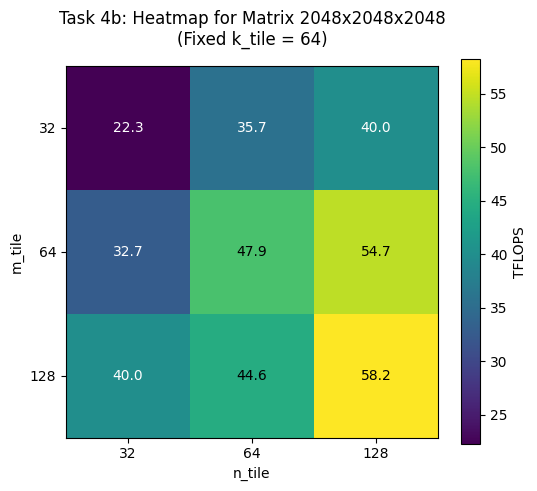
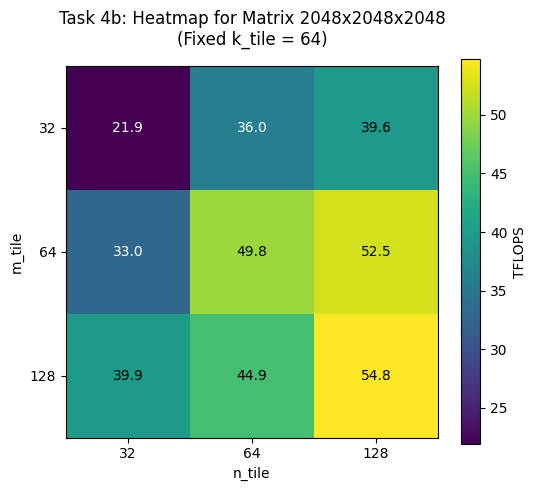
finish assignment 3 task4

diff --git a/assignments/03_assignment/src/task4.py b/assignments/03_assignment/src/task4.py
@@ -35,6 +35,7 @@ def main():
     vgl = torch.matmul(A, B)
     # print(C[:5,:5])
     # print(vgl[:5,:5])
+    assert torch.allclose(C, vgl.to(dtype=torch.float32), atol=1), "The result is incorrect!"
 
     fp = lambda : ct.launch(torch.cuda.current_stream(), grid, kernel_matmul, (A, B, C1, tm, tn, tk, grid_x,  grid_y))
     t = triton.testing.do_bench(fp, warmup=25, rep=1000)
@@ -42,27 +43,75 @@ def main():
     print("non_swizzle_kernel TFLOPs: ", tflops)
     
     task_4b()
-    assert torch.allclose(C, vgl.to(dtype=torch.float32), atol=1), "The result is incorrect!"
+
+
+@ct.kernel
+def kernel_matmul_swizzle_only_8th(A, B, C, tm: ct.Constant[int], tn: ct.Constant[int], tk: ct.Constant[int], grid_x, grid_y):
+
+    #swizzle_Group_size = 8
+    pid = ct.bid(0)
+
+    num_pid_in_block =  8 * 8
+    blocks_m = grid_x // 8
+    blocks_n = grid_y // 8
+
+    index_m_temp  = pid % 8
+    index_n_temp = (pid // 8) % 8
+
+    block_index = pid // num_pid_in_block
+
+    m_block_row = (block_index % blocks_m) * 8
+    index_m = m_block_row + index_m_temp
+    
+    n_block_col = (pid // (num_pid_in_block * blocks_m)) * 8
+    index_n = n_block_col + index_n_temp
+    
+
+
+    # first_index_m = (index_n_temp // 8) * 8
+    # index_m = (first_index_m + index_m_temp) % (grid_x * 8)
+
+    # index_n_block = index_n_temp % 8
+    # firs_index_n_block = (pid // threads_in_x_block) * 8
+    # index_n = firs_index_n_block + index_n_temp
+ 
+
+    num_tiles_k = ct.num_tiles(A, axis=1, shape=(tm, tk))
+    accumulator = ct.full((tm, tn), 0, dtype=ct.float32)
+
+
+    for k in range(num_tiles_k):                                                
+        
+        a = ct.load(A, index=(index_m, k), shape=(tm, tk), padding_mode=ct.PaddingMode.ZERO)
+        b = ct.load(B, index=(k, index_n), shape=(tk, tn), padding_mode=ct.PaddingMode.ZERO)
+
+        accumulator = ct.mma(a, b, accumulator)
+
+    ct.store(C, index=(index_m, index_n), tile=accumulator)
 
 
 @ct.kernel
 def kernel_matmul_swizzle(A, B, C, tm: ct.Constant[int], tn: ct.Constant[int], tk: ct.Constant[int], grid_x, grid_y):
 
-    #swizzle_Group_size = 8
+    swizzle_size = 8
     pid = ct.bid(0)
 
-    threads_in_x_block = (8 * 8 * grid_x)
+    num_pid_in_block = swizzle_size * grid_y
+    block_index = (pid // num_pid_in_block)
+    
+    begin_m = (block_index * swizzle_size)
 
-    index_m_temp  = pid % 8
-    index_n_temp = pid // 8
+    swizzle = swizzle_size
 
-    first_index_m = (index_n_temp // 8) * 8
-    index_m = (first_index_m + index_m_temp) % (grid_x * 8)
+    if (begin_m + swizzle_size) > grid_x:
+        swizzle = grid_x - begin_m
 
-    index_n_block = index_n_temp % 8
-    firs_index_n_block = (pid // threads_in_x_block) * 8
-    index_n = firs_index_n_block + index_n_temp
- 
+    index_m_temp  = pid % swizzle
+    index_n_temp = pid // swizzle
+    
+    index_n = index_n_temp % grid_y
+    index_m = begin_m + index_m_temp
+
 
     num_tiles_k = ct.num_tiles(A, axis=1, shape=(tm, tk))
     accumulator = ct.full((tm, tn), 0, dtype=ct.float32)

diff --git a/docs/source/03_results.md b/docs/source/03_results.md
@@ -58,15 +58,28 @@ BEST tile shape for 2048x2048x2048 is (128, 128, 64) achieving 54.57 TFLOPS
 ## Task 4: L2 Cache Optimization via Block Swizzling
 
 
-Our swizzeling is sadly not correct
 
 ```{literalinclude} ../../assignments/03_assignment/src/task3.py
 :language: python
-:lines: 47-77
+:lines: 93-127
 ```
+
+**Output:**
+```
+swizzle_kernel TFLOPs:  68.14132984785671
+non_swizzle_kernel TFLOPs:  27.46563761972282
+```
+
+Pid are chosen in horizontal Stripes. Every 8th pid is wraped around the the horizontal axis. Computing the first 8 rows in a horizontal line.
+When the Stripe is finished. The next Stripe is computed, starting at row 9 and so on.
+ At the last Stripe the remaining heiht of the stripe (the rows) are calculated and these remaining rows are computed.
 
 
 ![alt text](../../assignments/03_assignment/src/task4b_heatmap_512.png)
 
+-> BEST tile shape for 512x512x512 is (128, 64, 32) achieving 10.77 TFLOPS
+
 ![alt text](../../assignments/03_assignment/src/task4b_heatmap_2048.png)
+
+-> BEST tile shape for 2048x2048x2048 is (128, 128, 64) achieving 54.77 TFLOPS
 
